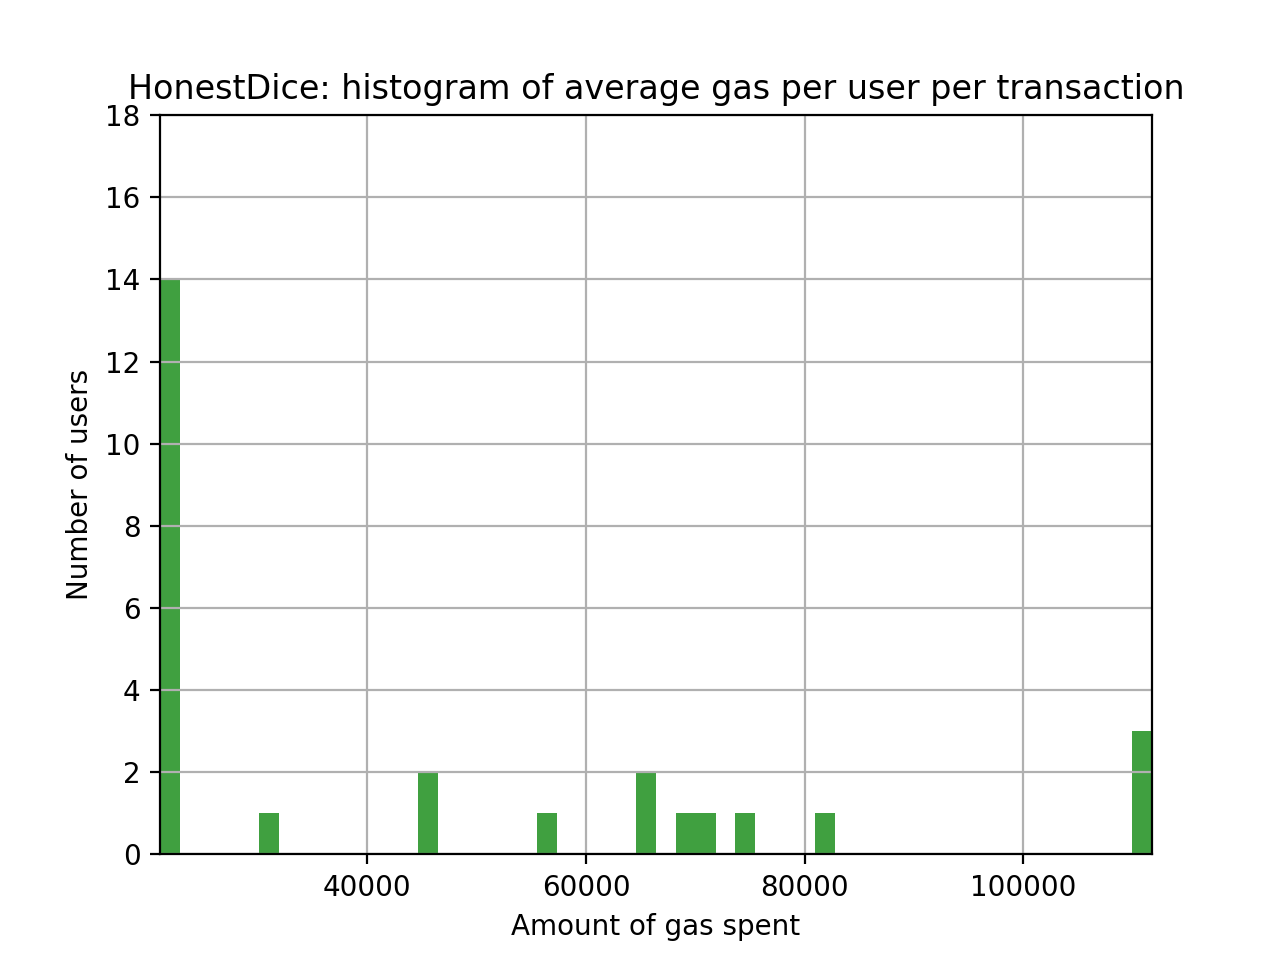
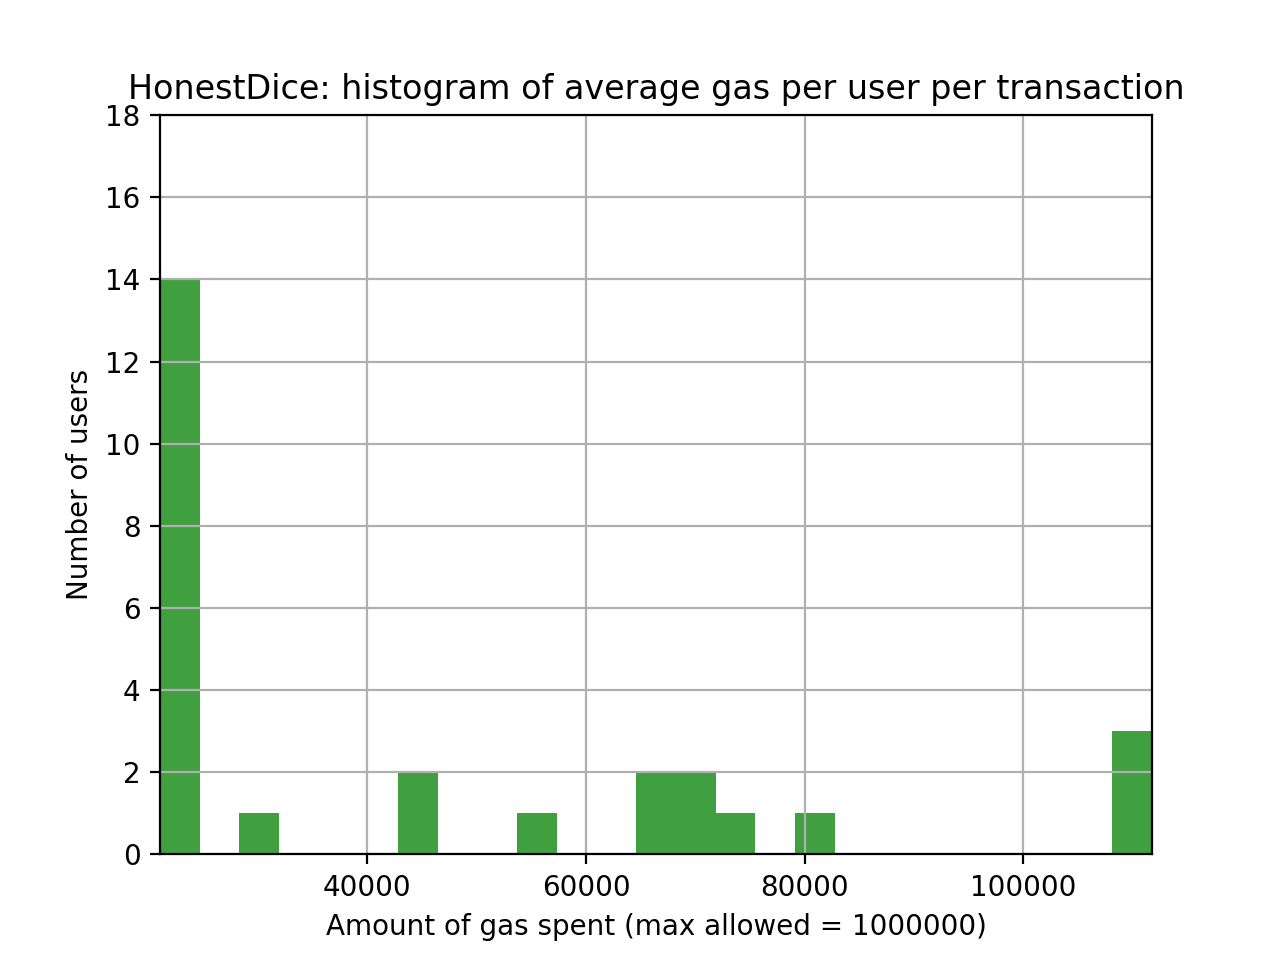
new plots

diff --git a/txn2dict.py b/txn2dict.py
@@ -158,20 +158,20 @@ def txnJSON2Dict(JSONstring):
 	print "======================="
 
 	####plot gas histogram
-	# mu, sigma = totalAveGasPerTxn, stDevGas
-	# aveGasPerUserList = [addressStats[address]["aveGasPerTxn"] for address in addressStats]
-	# x = np.array(aveGasPerUserList)
+	mu, sigma = totalAveGasPerTxn, stDevGas
+	aveGasPerUserList = [addressStats[address]["aveGasPerTxn"] for address in addressStats]
+	x = np.array(aveGasPerUserList)
 
-	# # the histogram of the data
-	# n, bins, patches = plt.hist(x, 25, facecolor='green', alpha=0.75)
+	# the histogram of the data
+	n, bins, patches = plt.hist(x, 25, facecolor='green', alpha=0.75)
 
-	# plt.ylabel('Number of users')
-	# plt.xlabel('Amount of gas spent')
-	# plt.title("Rouleth4.8: histogram of average gas per user per transaction")
-	# plt.axis([min(aveGasPerUserList), max(aveGasPerUserList), 0, 10])
-	# plt.grid(True)
+	plt.ylabel('Number of users')
+	plt.xlabel('Amount of gas spent (max allowed = ' + str(allowedGas) + ')')
+	plt.title("Rouleth4.8: histogram of average gas per user per transaction")
+	plt.axis([min(aveGasPerUserList), max(aveGasPerUserList), 0, 10])
+	plt.grid(True)
 
-	# plt.show()
+	plt.show()
 
 	####plot value histograms
 	# mu2, sigma2 = totalAveGasPerTxn, stDevValue
@@ -191,7 +191,7 @@ def txnJSON2Dict(JSONstring):
 
 files = ["./txndata/EthereumLottery.json", "./txndata/Etheroll.json", "./txndata/HonestDice.json", "./txndata/Rouleth3.5.json", "./txndata/Rouleth4.8.json"]
 
-with open(files[3], 'r') as myfile:
+with open(files[4], 'r') as myfile:
 	data=myfile.read()
 
 txnJSON2Dict(data)
